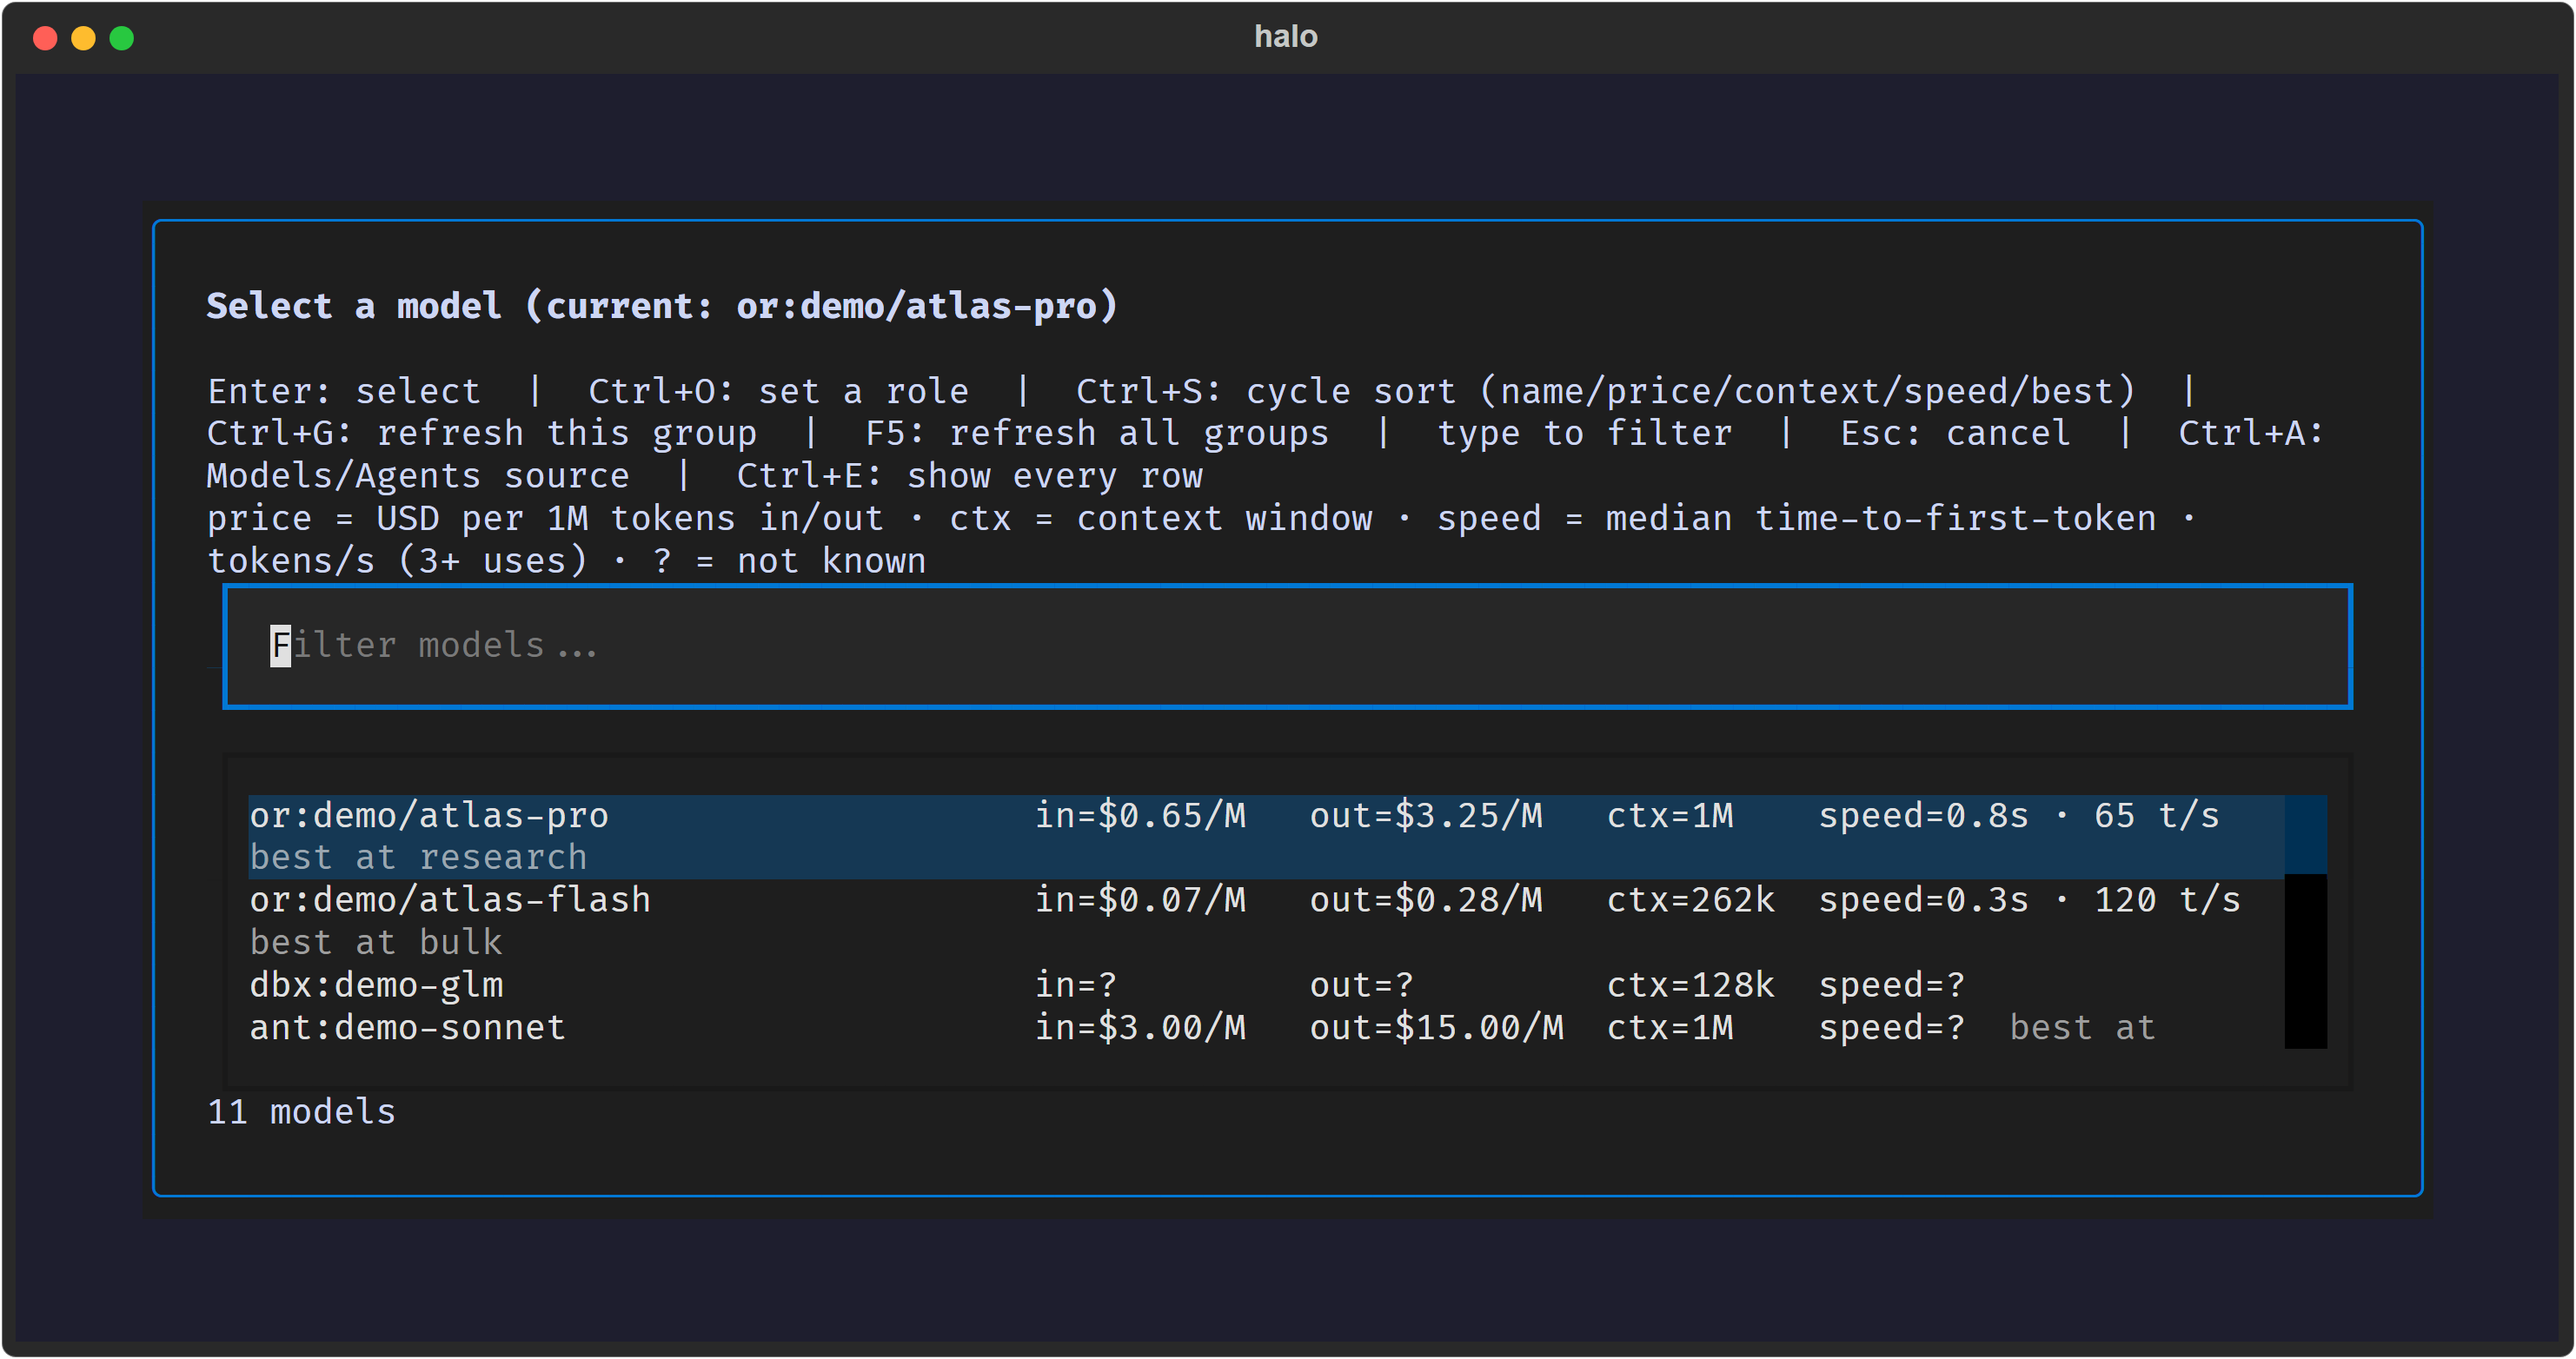
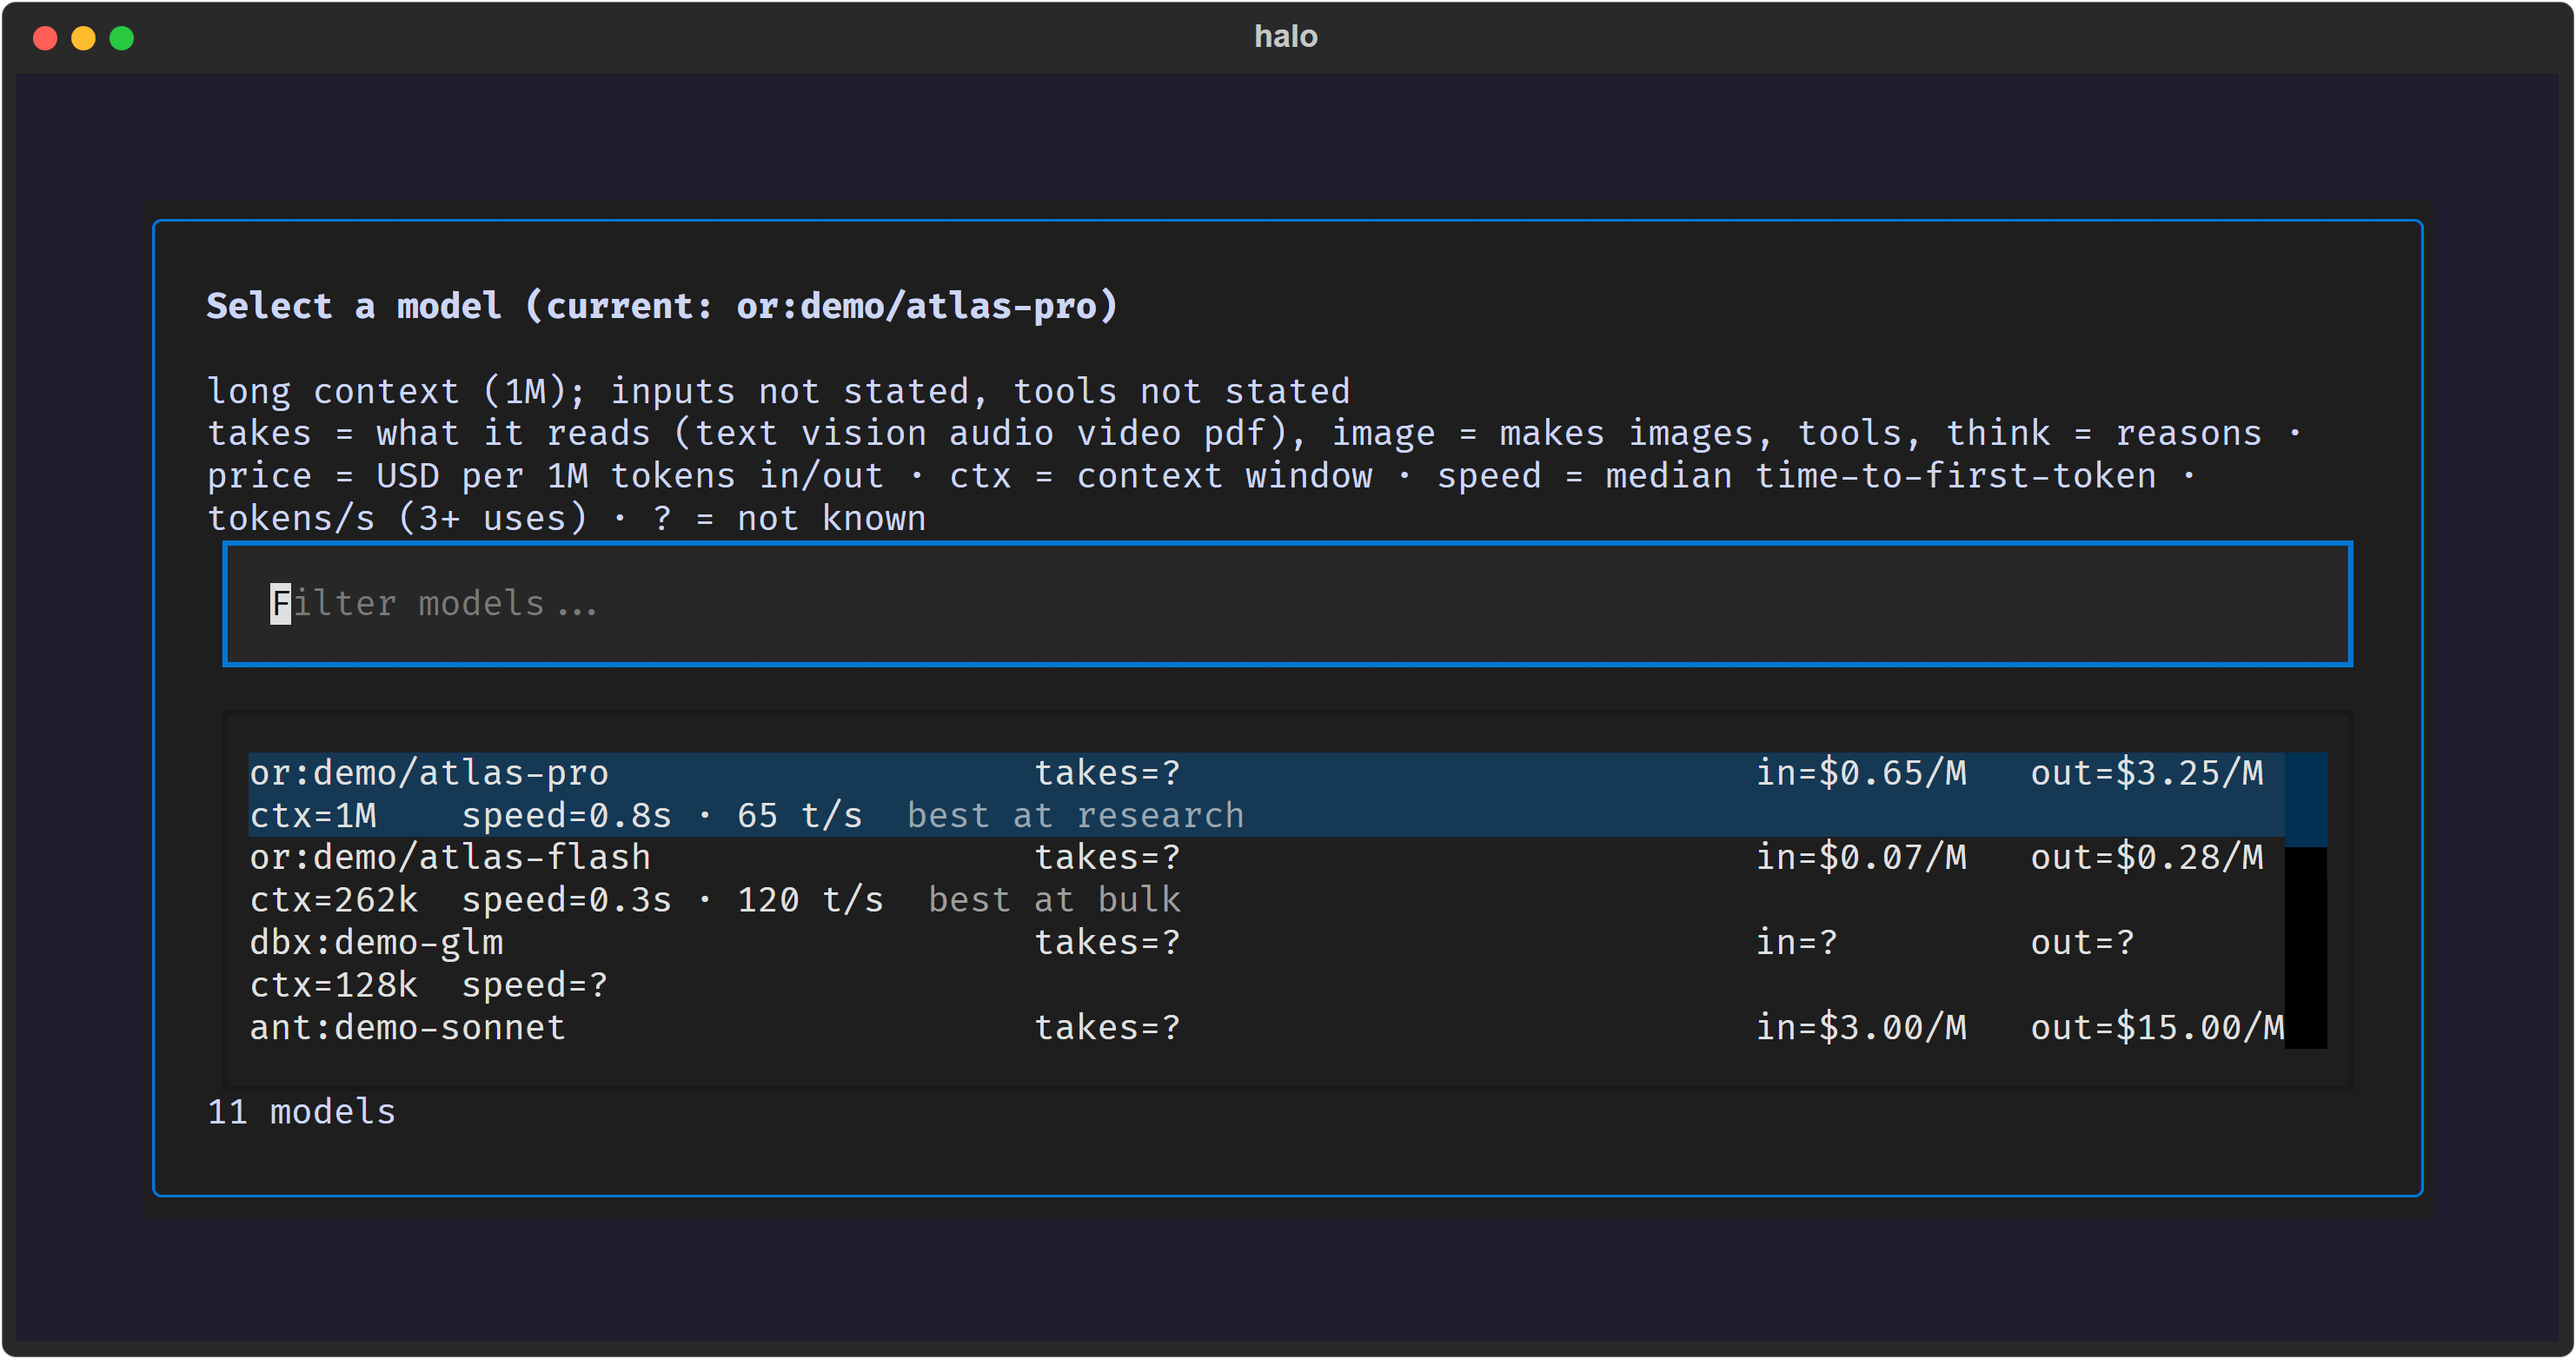
captures and a driver after 84c04ff0's CI: the picker renders carry the takes column; the model-card driver points at each row
docs/screenshots/picker.svg (scripts/screenshots.py) and docs/media/model-picker.svg + .png (tools/capture_screens.py)
are re-rendered: R2 gave the picker's rows a `takes=` column and the committed renders still showed the old row
(Linux shard 2 and Windows shards 2 and 3). The model-card Chrome driver scrolls each picker row into view, focuses it
AND sends it a pointer-over before waiting for the detail line, since the row's onFocus did not fire on the hosted
Linux runner (Linux shard 2, five checks of test_studio_model_card).

Claude-Session: https://claude.ai/code/session_0144GPP52pqwJCD1tf1Nptz1

Changed region(s): [[0.0621, 0.2762, 0.9312, 0.5217], [0.0931, 0.5524, 0.9312, 0.7673]]

diff --git a/tests/helpers/studio_model_card.py b/tests/helpers/studio_model_card.py
@@ -82,7 +82,10 @@ def roles_picker(c, url, ctx) -> dict:
     detail = f"{picker}.querySelector('[data-testid=\"model-detail\"]')"
     c.call("Emulation.setFocusEmulationEnabled", enabled=True)  # focus events fire without window focus
     for ref in c.js(f"[...{picker}.querySelectorAll('[data-testid=\"model-row\"]')].map((r) => r.dataset.ref)") or []:
-        c.js(f"{picker}.querySelector('[data-testid=\"model-row\"][data-ref=\"{ref}\"]').focus(); 1")
+        # focus() and a pointer-over, since the row's onFocus did not fire on the hosted Linux runner (6a300007, shard 2)
+        row_js = f"{picker}.querySelector('[data-testid=\"model-row\"][data-ref=\"{ref}\"]')"
+        c.js(f"{row_js}.scrollIntoView({{block: 'nearest'}}); {row_js}.focus(); "
+             f"{row_js}.dispatchEvent(new MouseEvent('mouseover', {{bubbles: true}})); 1")
         c.wait(f"{detail}?.dataset.ref === {json.dumps(ref)}", 10)
         out["picker_chips"].append(c.js(f"[...{detail}.querySelectorAll('[data-chip]')].map((x) => x.textContent).join(' ')"))
         out["picker_eyes"].append(c.js(f"[{detail}.querySelector('[data-testid=eye-chip]')?.dataset.eye, "
